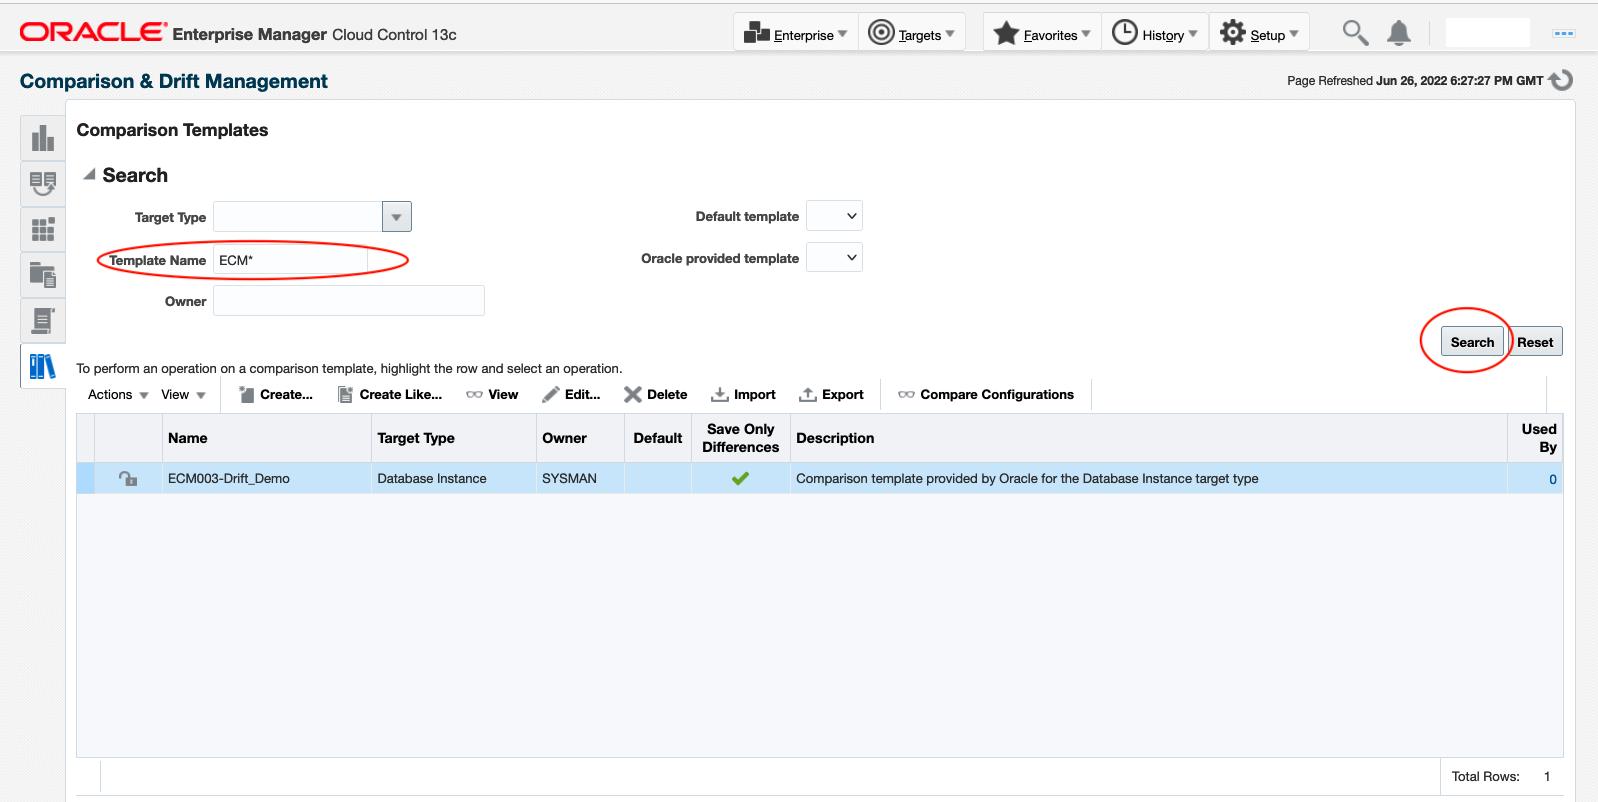
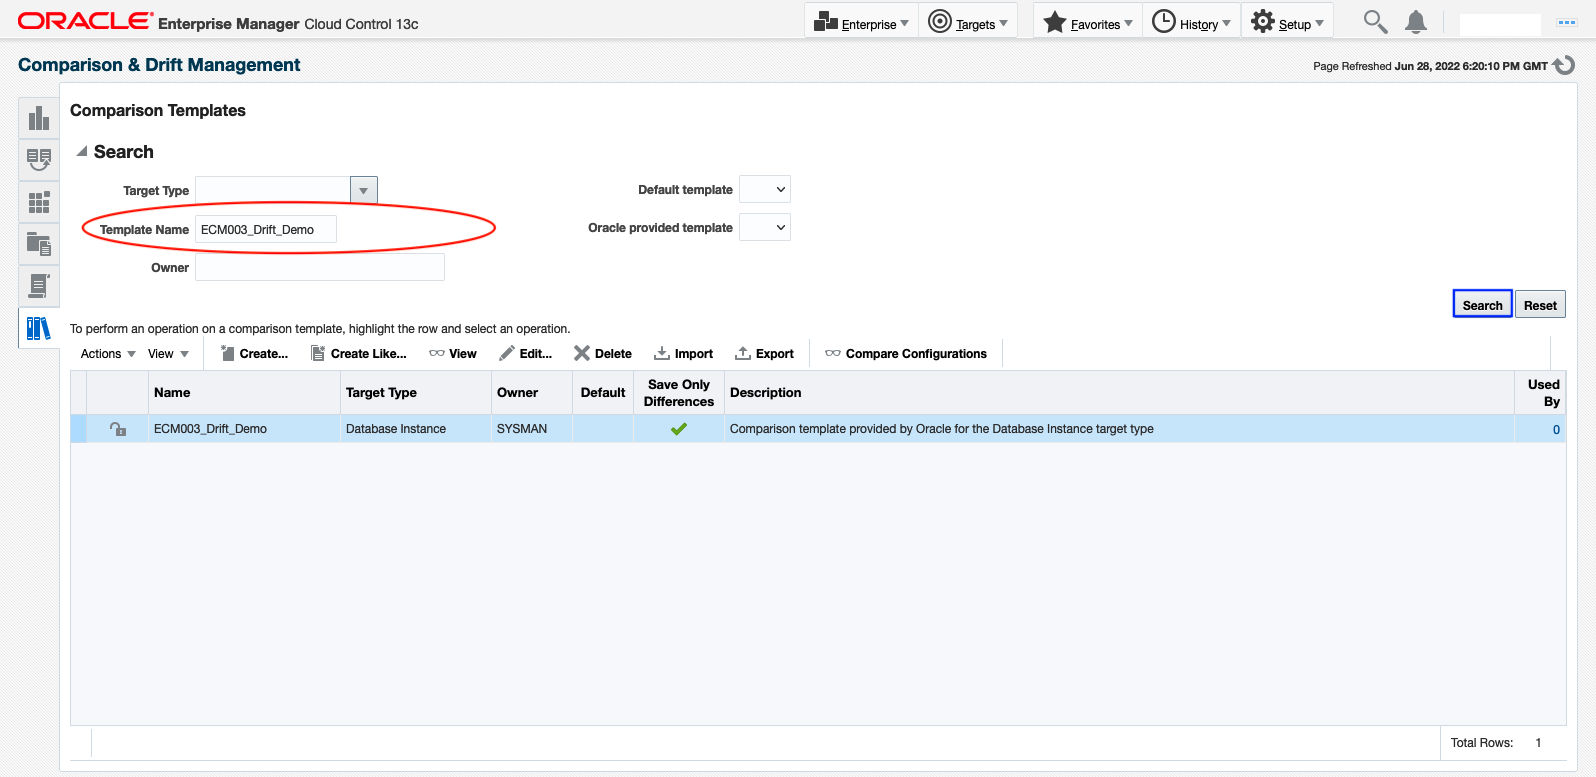
Steps 5 description has changed

diff --git a/enterprise-manager/emcc-new/em-configuration-compliance-management/em-configuration-compliance-management.md b/enterprise-manager/emcc-new/em-configuration-compliance-management/em-configuration-compliance-management.md
@@ -212,9 +212,9 @@ In this workshop, you will learn about continuous configuration drift monitoring
 
   ![](images/Compare_and_Drift_Demo_Image_3.png " ")
 
-5.  A complete copy of Database Instance template with unique name is created with all configuration items enabled, by **Search** with name created, by  default Highlight this new template and click Edit.
+5.  A complete copy of Database Instance template with unique name is created with all configuration items enabled, by **Search** with name **ECM003_Drift_Demo** created, by  default Highlight this new template and click Edit.
 
-  ![](images/Compare_and_Drift_Demo_Image_4.png)
+  ![](images/Compare_and_Drift_Demo_Image_4.png " ")
 
   ![](images/Compare_and_Drift_Demo_Image_5.png " ")
 
